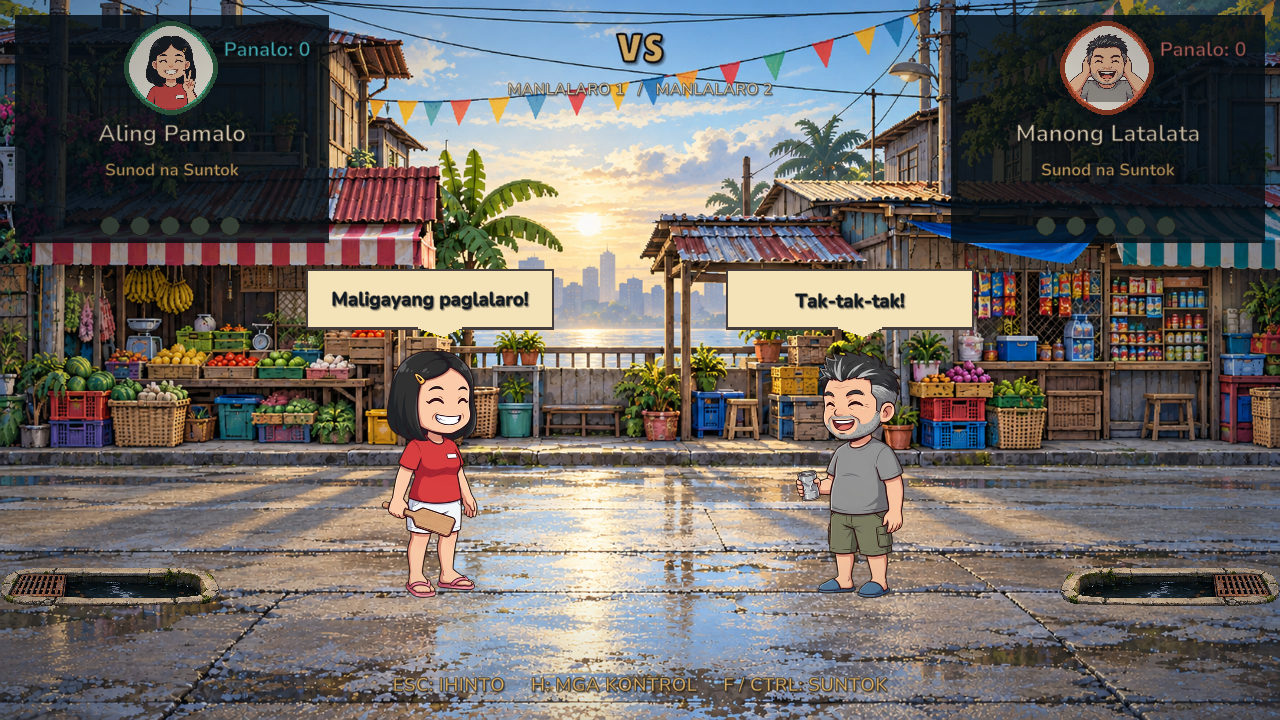
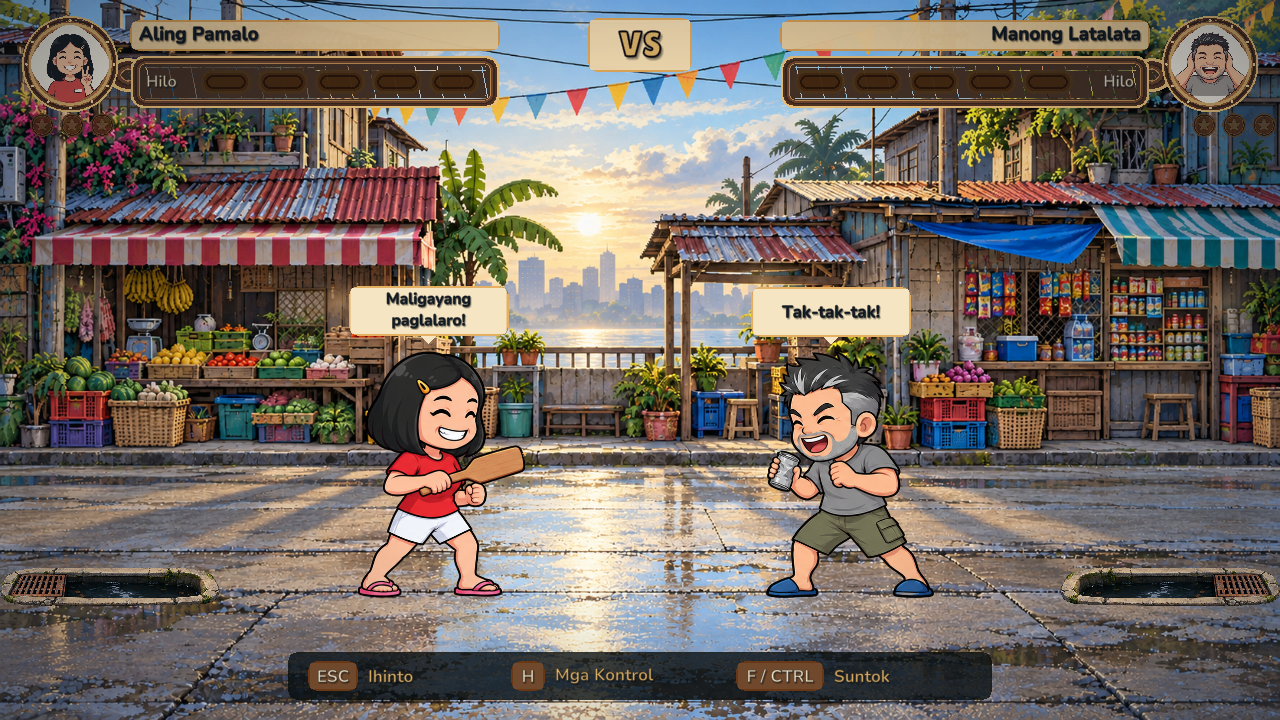
Verify wooden Hilo HUD and corrected pause layouts at five sizes

diff --git a/HANDOFF.md b/HANDOFF.md
@@ -4,7 +4,7 @@ Branch: `phase3-polish`. Project: `C:\Users\chris\Documents\CSEL GAMEDEV FILES\I
 
 ## Done
 
-- Rebuilt the game from the real project folder with Unity 6000.6.2f1. Current source passes 65 rule assertions, graphics-enabled EditMode 11/11 and PlayMode 9/9. The complete five-resolution captures will be refreshed after HUD step 3; earlier five-size captures predate the authored strike/head-anchor changes.
+- Rebuilt the game from the real project folder with Unity 6000.6.2f1. Current source passes 65 rule assertions, graphics-enabled EditMode 11/11 and PlayMode 9/9. Fresh native smoke passes all five sizes: 1280x720, 1366x768, 1920x1080, 2560x1440 and 3440x1440, with no reported exceptions, missing glyphs or TMP overflow. Both Hilo labels remain clear and the reviewed HUDs fit every size.
 - Reviewed 1280x720 match/dizzy and 3440x1440 match/result. The Hilo HUD is visible, five amber/red streak pips fill/reset, and dizzy stars show. HUD screenshots for all five sizes are under `QA_SCREENSHOTS/HUD/`.
 - Step 1 complete: eight authored six-phase weapon-strike sheets are integrated. Weapons raise and reach horizontally toward the opponent, with no separate weapon object or thin straight trail. All 272 textures share an 896x512 canvas and an actual feet-center actor pivot. Every frame passed body-mask connectivity/bounds/ground checks; all 48 strikes passed grip/tip checks. Swing/impact audio and the fully extended frame align to the unchanged hit event.
 - The native build captured 108 animation/pair screenshots under `QA_SCREENSHOTS/ANIMATION/Unity/`, covering six strike and four hurt frames per character in both facings and all 28 pair types. I reviewed all eight strike/hurt asset montages and native representative frames; no split body, floating item or clipping was found. `Docs/animation_capture_evidence.json` stores native capture hashes.
@@ -14,21 +14,21 @@ Branch: `phase3-polish`. Project: `C:\Users\chris\Documents\CSEL GAMEDEV FILES\I
 ## In progress
 
 - Step 2 complete: per-frame head positions are authored in animation data, mirrored with the whole sprite, and transformed with the actor through motion/dizzy/fall. Bubbles use rounded 160x50 plates and short tails, stay centered on their own heads, clamp to the screen/HUD-safe region, and separate vertically when close. Fresh EditMode 11/11, PlayMode 9/9 and 65 rule assertions passed. Native close-range smoke proof is under `QA_SCREENSHOTS/Step2_Bubbles/`.
-- Step 3 source refinements are checkpointed: P2 label no longer shares a segment slot; ring/bar connectors, keycaps, win sparkle and shared wooden menu frames are implemented. Native review found a pause-before-first-update placement bug and focus scaling outside the settings frame; both are fixed with new regressions. Fresh tests/build and five-size re-capture are pending for these last two corrections.
+- Step 3 complete: joined wood/brass rings and Hilo bars, uncovered mirrored labels, five amber/red segments per player, win medal pop/sparkle, bottom keycaps and shared wooden menu frames. Native review found pause-before-first-update placement and double/edge focus scaling bugs; both are fixed and covered by regressions. All tests/build and five-size native re-captures passed. HUD captures are under `QA_SCREENSHOTS/HUD/`.
 - Watchdog file exists from the interrupted work but is not registered or running. Finish/test strikes, bubbles and HUD before completing watchdog setup, per the latest user order.
 - Latest distributable ZIP is intentionally not rebuilt here; final EXE/Drive work is queued separately.
 
 ## Next five steps
 
-1. Finish mirrored wooden Hilo HUD, label spacing, winner tally, bottom keycaps and menu frame consistency.
-2. Run rule/input checks and five-size native smoke; review screenshots and commit step 3.
-3. Finish/test the watchdog after steps 1–3; register/start it, record power settings and commit step 4.
-4. Continue reaction/expression and action-pose polish using fictional assets only; retain honest placeholder/manual statuses for any uncompleted art.
-5. Refresh final evidence and clean-tree pre-check, then stop before the separately queued final EXE/Drive task.
+1. Finish/test the watchdog now that steps 1–3 passed; verify one-agent detection and lock/reset behavior.
+2. Register/start it, record scheduled task and prior power settings, and commit step 4; rerun RubricTests/65 rules.
+3. Continue remaining original UI/art work: reaction/expression poses, headings/controls details, fixed night relighting and subtle foliage/banderitas.
+4. Refresh final test/build/capture evidence after remaining source/art changes; keep hardware/clean-PC checks manual.
+5. Run the clean-tree pre-check and stop before the separately queued final EXE/Drive task. No public publishing until the photo-history decision.
 
 ## Resume command
 
-`codex exec --sandbox workspace-write -C "C:\Users\chris\Documents\CSEL GAMEDEV FILES\ILABAN ANG TAWA DEVELOPED BY CHRISTINE TAMAYO" "Read RESUME_STATE.txt and HANDOFF.md, run git status, finish step 3 wooden Hilo HUD and tests, then continue the numbered steps. Do not ask questions or start the queued EXE/Drive task."`
+`codex exec --sandbox workspace-write -C "C:\Users\chris\Documents\CSEL GAMEDEV FILES\ILABAN ANG TAWA DEVELOPED BY CHRISTINE TAMAYO" "Read RESUME_STATE.txt and HANDOFF.md, run git status, finish step 4 safe auto-resume setup and tests, then continue the original UI/art checklist. Do not ask questions or start the queued EXE/Drive task."`
 
 For the next Codex session: read `RESUME_STATE.txt`, `HANDOFF.md`, `PENDING_NETWORK.md`, `CHECKLIST.md`; run `git status`; continue from step 1 above. Do not ask questions. Do not start final EXE/Drive task in this continuation.
 

diff --git a/CHECKLIST.md b/CHECKLIST.md
@@ -15,16 +15,16 @@ Status: [x] verified in source/tests/captures; [~] implemented partially or NEED
 11. [x] Three stage cards show distinct location art, names and hints at all five sizes.
 12. [~] Shared themed buttons work across views; exhaustive manual state review remains.
 13. [x] Exactly three maps: Palengke (Umaga), Looban (Takipsilim), Plaza (Takipsilim); no time selector.
-14. [x] Original carved wood/brass portrait rings, wood name plates, center VS badge, winner medals, bottom hint plate and five amber-to-red Hilo pips are used. There is no health, stamina, timer or K.O. object. Hilo fills on consecutive hits and resets when a streak breaks. Evidence: `QA_SCREENSHOTS/HUD/`, `FightHudHasFiveHiloPipsAndNoSeparateItemSprites`.
+14. [x] Joined original wood/brass portrait rings and mirrored five-segment Hilo bars, wood name plates, center VS, win medals with pop/sparkle, and a rounded bottom keycap plate are used. Both labels remain uncovered. No health/stamina/timer/K.O. objects. Hilo starts empty, fills with consecutive hits and resets with the streak. Pause, controls and results share the wood frame. Evidence: five native screenshots in `QA_SCREENSHOTS/HUD/`, both-player Hilo/label PlayMode checks.
 15. [~] Lamp glow animates. Banderitas and foliage remain part of fixed artwork.
-16. [x] Pause/controls transitions have no orphan fighters. Evidence: PlayMode test.
+16. [x] Pause/controls transitions have no orphan fighters; immediate pause before the first fight update preserves correct stage placement. Root cause and regression are recorded in `BUG_LOG.md` and `PauseAndSettingsOverlaysHaveNoOrphanFighterObjects`.
 17. [x] Rounded 160x50 reaction bubbles track each per-frame head anchor through facing/motion, with a small tail pointing to that head. Close bubbles separate vertically while their horizontal centers stay on their owners. Screen/HUD bounds and non-overlap are tested. A falling actor's bubble follows it briefly before hiding with the actor. Evidence: `ReactionBubblesTrackHeadAndStayInSeparateHudSafeLanes`, `QA_SCREENSHOTS/Step2_Bubbles/05-dizzy.png`.
 18. [x] No interactive Suntok orb remains. Fight hint shows the punch control.
 19. [x] Result panel, winner pose, confetti and win sound work. Evidence: `06-result.png` at each resolution.
 20. [~] Windows build starts windowed for QA and supports Alt+Enter. Exact screenshot layouts passed all five sizes; full-screen monitor behavior still needs a manual device check.
 21. [~] Rubric evidence is documented; no Exceeds-level claim is made.
 22. [x] This checklist and `UPDATE_PROGRESS.md` cover all 25 release items.
-23. [~] Current source passed 65 rule assertions, EditMode 11/11 and PlayMode 9/9. Action-frame structural audit and 108 native animation captures passed. Full five-size smoke will refresh after HUD step 3. The distributable ZIP has not been rebuilt for these changes; queued executable/Drive work stays separate.
+23. [~] Current source passed 65 rule assertions, EditMode 11/11, PlayMode 9/9 and five native resolution runs (1280x720, 1366x768, 1920x1080, 2560x1440, 3440x1440). No reported exceptions, glyph/overflow issues, default English candidates or clipped audio samples. Action-frame audit and 108 native animation captures passed. Latest ZIP rebuild/extraction remains in the separately queued EXE/Drive task.
 24. [~] Local work is on `phase3-polish`; no push, merge, force-push or history rewrite. The PUBLIC repository's prior history contains reference photos. Owner decision about history/privacy is pending.
 25. [~] README and local evidence are prepared. The ZIP and public release link await the separate final EXE/Drive task and the public-history decision.
 

diff --git a/CODEX_RESUME.md b/CODEX_RESUME.md
@@ -1,12 +1,15 @@
 # Resume this Unity project
 
-Project: `C:\Users\chris\Documents\CSEL GAMEDEV FILES\ILABAN ANG TAWA DEVELOPED BY CHRISTINE TAMAYO`
-Branch: `phase3-polish`.
+Project: `C:\Users\chris\Documents\CSEL GAMEDEV FILES\ILABAN ANG TAWA DEVELOPED BY CHRISTINE TAMAYO`; branch `phase3-polish`.
 
-Read `HANDOFF.md`, `CHECKLIST.md` and `Docs/CHARACTER_DESIGN.md`. Do not push, force-push, rewrite history, merge, or add/upload/send any `CHARACTER REFERENCE` photos. Keep all graded combat and Tagalog/Pormal rules intact.
+Read `RESUME_STATE.txt`, `HANDOFF.md`, `PENDING_NETWORK.md`, `CHECKLIST.md`; run `git status`. Do not push, merge, force-push or rewrite history. Never read/upload/commit real-person `CHARACTER REFERENCE` photos. Keep graded movement, punch, step-back, dizzy, manhole, input isolation and Tagalog/Pormal defaults intact.
 
-The latest Windows x64 build was made from `%TEMP%\Ilaban-Final-Validation`. Its source HEAD matched real commit `2f3fbbe` when built; later commits only updated packaging helpers and QA documentation. Set `$env:ILABAN_PROJECT=Join-Path $env:TEMP 'Ilaban-Final-Validation'` before rerunning `Tools/run_portable_qa.py` or `Tools/package_portable.py`.
+Steps 1–3 are implemented and verified: 48 authored whole-body weapon-strike poses, common 896x512 canvases/feet pivots, per-frame head-owned bubbles with tails/vertical separation, joined wood/brass Hilo HUD with five amber/red segments and winner medals. Immediate-pause and button/card scaling regressions are fixed.
 
-Verified: 65 rule assertions; EditMode 9/9; graphics-enabled PlayMode 4/4; portable QA 1280x720, 1366x768, 1920x1080 and 2560x1440; extracted ZIP launched and completed a simulated gamepad match. Details and hashes are in `HANDOFF.md`, `Docs/portable_qa_results.json`, `Docs/package_verification.json` and `Docs/QA_EVIDENCE`.
+Fresh verification from the real project: Unity 6000.6.2f1 build, 65 rule assertions, EditMode 11/11, PlayMode 9/9, five native resolution runs (1280x720, 1366x768, 1920x1080, 2560x1440, 3440x1440). 108 native animation/pair screenshots and 272 body-mask structural checks passed. See `Docs/QA_EVIDENCE`, `Docs/portable_qa_results.json`, `Docs/animation_capture_evidence.json`.
 
-Remaining manual checks: physical controllers/hot-swap, keyboard rollover and latency, listening/audio balance, presentation monitor fit, clean PC without Unity, antivirus/SmartScreen. Cutout rig articulation/expression swaps remain partial. Do not rerun `Tools/generate_ilaban_assets.py` blindly; it does not reproduce the approved art.
+Next: finish/test step 4 watchdog after the completed three fixes; then continue remaining original UI/art checklist items listed in HANDOFF. Watchdog files exist from interrupted work but are not yet registered/running. Relaunch count 0.
+
+Do not start the separately queued final EXE/ZIP delivery or Drive upload task. Current distributable ZIP predates these changes. Public publishing is held for the owner decision about old reference photos in public Git history.
+
+Exact resume command is in `HANDOFF.md`. Before every long command update the local one-line `RESUME_STATE.txt` with current HEAD, operation and UTC time.

diff --git a/BUG_LOG.md b/BUG_LOG.md
@@ -69,3 +69,11 @@ Original artwork, face files, audio and Main.unity have not been deleted. Proced
 ## Step 2 verified — head-owned bubbles
 
 The old bubble code used fighter foot X plus a fixed offset, then pushed nearby bubbles into horizontal lanes. That made bubbles drift away from the heads. Each action frame now provides a head-top coordinate; the rendered anchor mirrors and moves with the complete sprite. Rounded bubbles center on that anchor, and close-range collisions raise one bubble by a safe vertical lane instead of moving it sideways. A small tail retains the head's X target. Tests cover owner centering, tail direction, vertical non-overlap and HUD/screen bounds; 11 EditMode, 9 PlayMode and all 65 rule assertions pass. Combat timing/range/hitboxes are unchanged.
+
+## Step 3 verified — mirrored wooden Hilo HUD and pause layout
+
+- P2's first Hilo segment used x=300 while its label started at x=306, covering the word. Segments now occupy x=14..294 with a separate label slot, and both meters are tested empty / 1..5 / reset.
+- Added ring/bar wood connectors, bottom keycaps, medal sparkle and matching wood menu frames. No life/stamina/timer/K.O. widget exists.
+- The top-left pause fighter was not an extra object: Fight created both actors at the helper's default origin, and an immediate pause returned before their first layout update. Actors now receive stage positions and facing when constructed; a pause-before-first-update regression checks their exact placement.
+- Focus scaling pivoted buttons at their top-left and cards scaled twice (parent and child). Buttons now scale around center; card child feedback uses color/outline while the parent has one bounded scale. Selected card non-overlap is tested.
+- Final step-3 checks: EditMode 11/11, PlayMode 9/9, 65 rule assertions, zero C# warnings/errors, five exact native resolution runs, no reported glyph/overflow/runtime issues. HUD and pause/controls/result/selection captures were reviewed.
